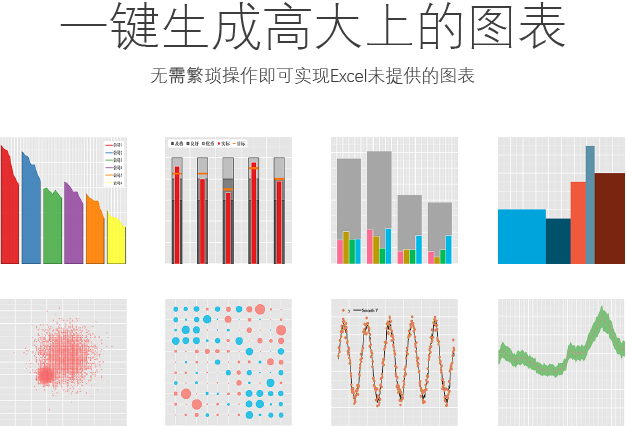
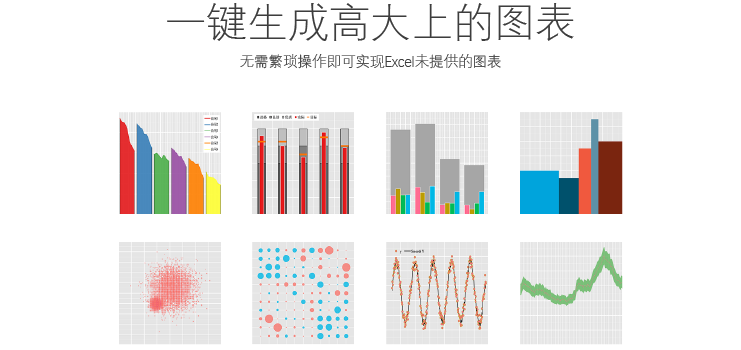
update

diff --git a/index.html b/index.html
@@ -53,19 +53,19 @@
 	
 		<div class="row clearfix" >		
 				
-				<div class="col-lg-12" style="margin-top:9%">	
+				<div class="col-lg-12" style="margin-top:3%">	
 					<p style="text-align:center;">
 						<img src="images/page.png" alt="EClogo">
 					</p>					
 				</div>
 				
-				<div class="col-lg-12" style="margin-top:2%">		
+				<div class="col-lg-12" style="margin-top:1%">		
 					<p style="text-align:center;font-family:Microsoft YaHei">
 						<a href="http://pan.baidu.com/s/1eREl5yM" target="_blank"><button type="button" class="btn btn-warning "  style="margin-top:1%;width:10em;font-size:1.3em;">下       载</button></a>
 					</p>
 				</div>
 				
-				<div class="col-lg-12"  style="margin-top:0.6%;margin-bottom:3%">		
+				<div class="col-lg-12"  style="margin-top:0%;margin-bottom:3%">		
 					<p style="text-align:center;">
 						<img src="images/page1.png" alt="EClogo1">
 					</p>	
@@ -76,7 +76,7 @@
 		<div class="row clearfix" style="background-color:#f7f7f7">	
 			<div class="col-lg-12"  style="margin-top:6%;margin-bottom:6%">		
 				<p style="text-align:center;">
-					<img src="images/page2.png" alt="EClogo">
+					<img src="images/page2.png" alt="page2">
 				</p>	
 			</div>
 		</div>
@@ -84,7 +84,7 @@
 		<div class="row clearfix" style="background-color:#ffffff">	
 			<div class="col-lg-12"  style="margin-top:6%;margin-bottom:6%">		
 				<p style="text-align:center;">
-					<img src="images/page3.png" alt="EClogo">
+					<img src="images/page3.png" alt="page3">
 				</p>	
 			</div>
 		</div>
